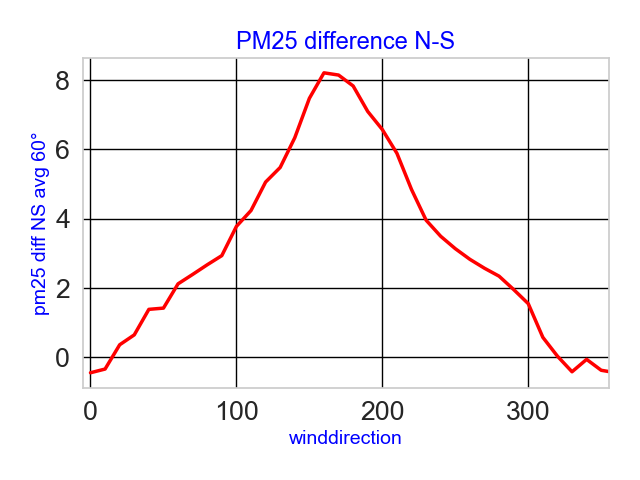
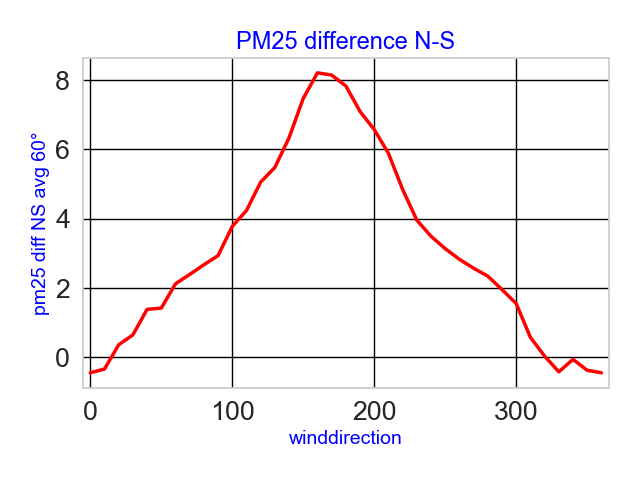
syncing

diff --git a/python/plotter.py b/python/plotter.py
@@ -136,7 +136,7 @@ def windplot(frame, values, polar=True, useMedian=True, title="Windplot", smooth
 
     else:
         lplot = (sns.lineplot(data=conc, x="winddirection", y=values, linewidth=2.5))
-        lplot.set(xlim=(-5.0, 355.0))
+        lplot.set(xlim=(-5.0, 365.0))
         lplot.set(title=title)
         lplot.set_ylabel(values.replace("_", " "), fontsize=14)
         lplot.set_xlabel("winddirection", fontsize=14)
